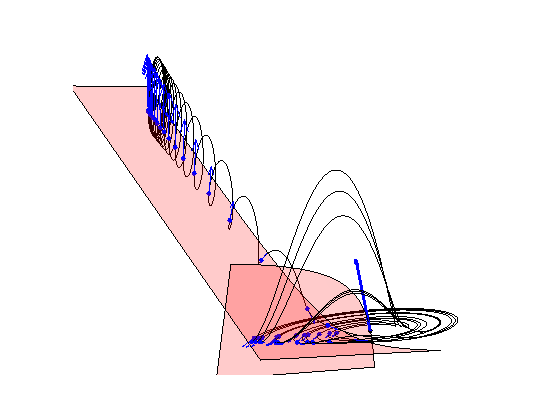
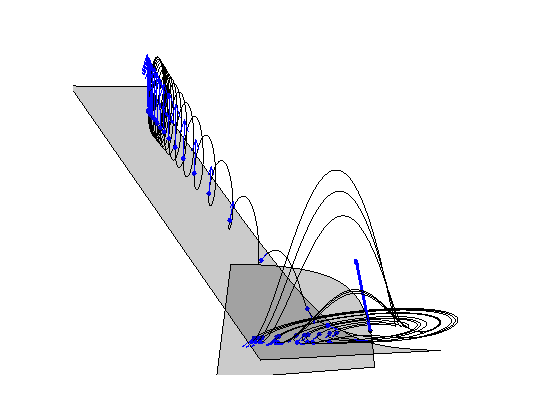
recolored images

Changed region(s): [[0.1214, 0.1857, 0.7286, 0.8976]]

diff --git a/blog/atlas.tex b/blog/atlas.tex
@@ -3086,14 +3086,19 @@ Both sections superimposed.
     }{\label{fig:bothpoin}}
  \end{figure}
 
+\item[2012-04-14 Keith] Just read through log: Bryce, see if you can replicate the images I posed above; the graphics from Mathematica look much better and simpler to read.  All you want is the interesting areas, where the trajectories cross correctly the Poincar\'e sections.
+
 \item[2012-04-15 Predrag to Keith] I like them, except for the girly men
 pink - make it gray. I think both.png is wrong: the ridge is above the
 strange attractor, the outer section does not reach that far. See
 \reffig{fig:RoessFarEq}\,(b). You guys decide which ones illustrates the
 2-chart atlas  best, both of these sets are acceptable for me.
 
+
 \item[2012-04-15 Predrag to Bryce] RoessTrjs2.png is turned 180$^o$ wrong
 way - the attractor should be identical in the 4 frames, like in Keith's
 girly depictions.
+
+\item[2012-04-15 Keith to Predrag] My wife picked out the color; its her favorite color.  Reposted the images.
 
 \end{description}
